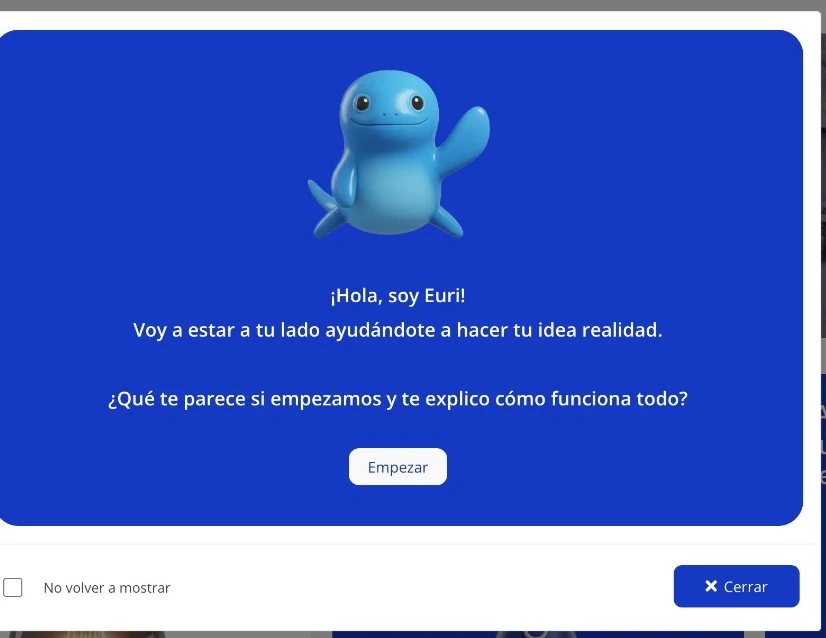
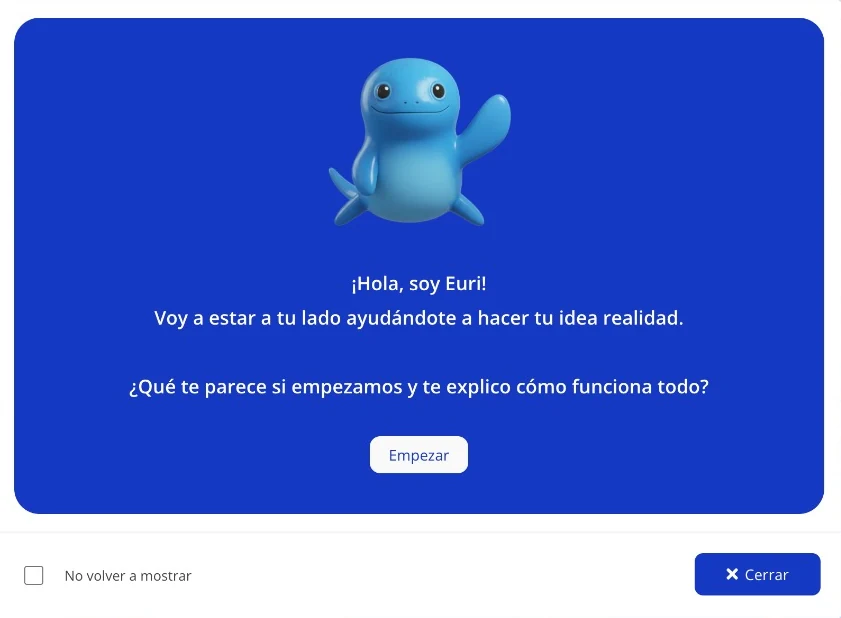
Innohub: four-panel collage from the real screens as the case study's first image
Claude-Session: https://claude.ai/code/session_0125CzzT5S3G4ujjDNa4kPYe

diff --git a/lib/projects.ts b/lib/projects.ts
@@ -76,7 +76,7 @@ export const projects: Project[] = [
     ],
     image: "/projects/innohub/card-logo.png",
     motion: "innohub",
-    cover: "/projects/innohub/cover.png",
+    cover: "/projects/innohub/cover-collage.jpg",
     imageAlt: {
       en: "The Innohub platform: cards inviting employees to share ideas with impact, on a blue background",
       es: "La plataforma Innohub: tarjetas que invitan a los empleados a compartir ideas con impacto, sobre fondo azul",
